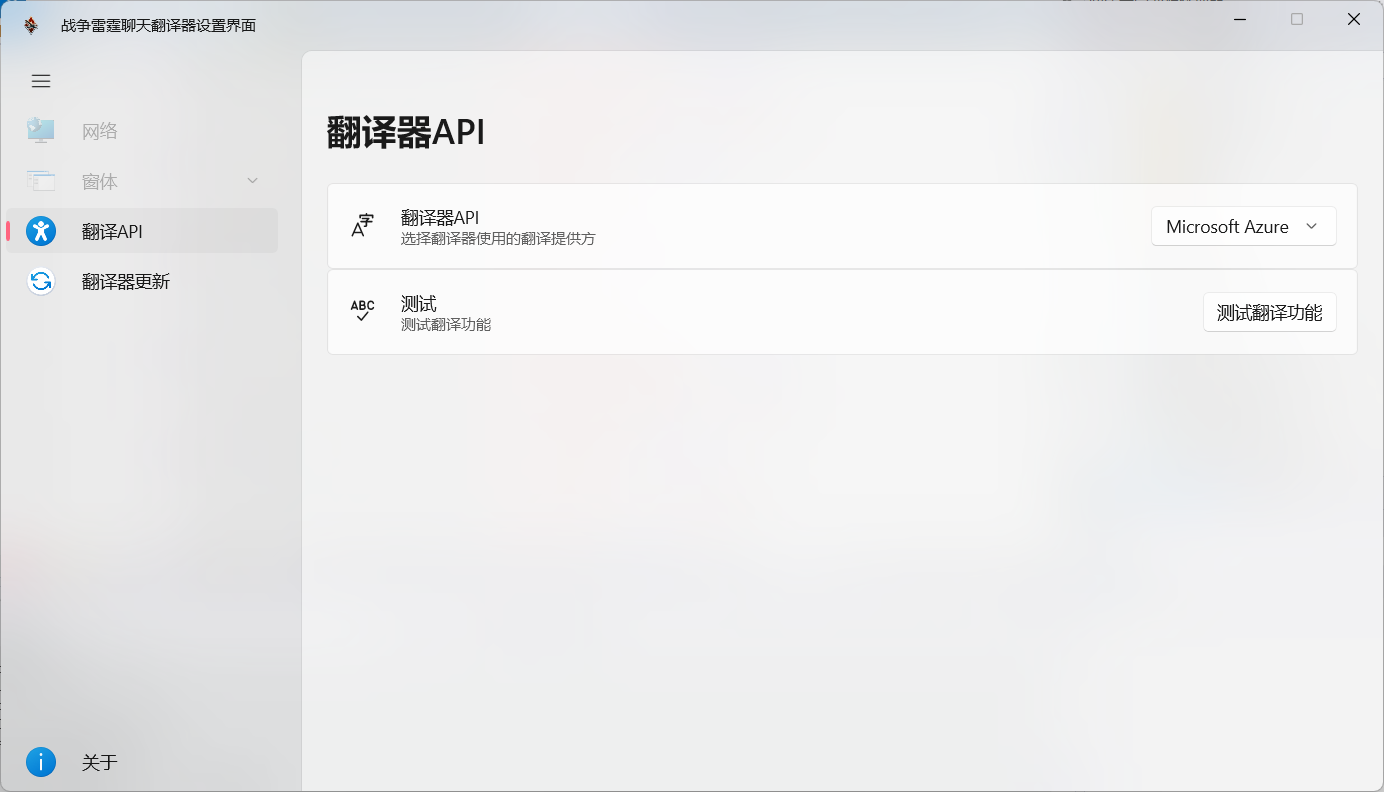
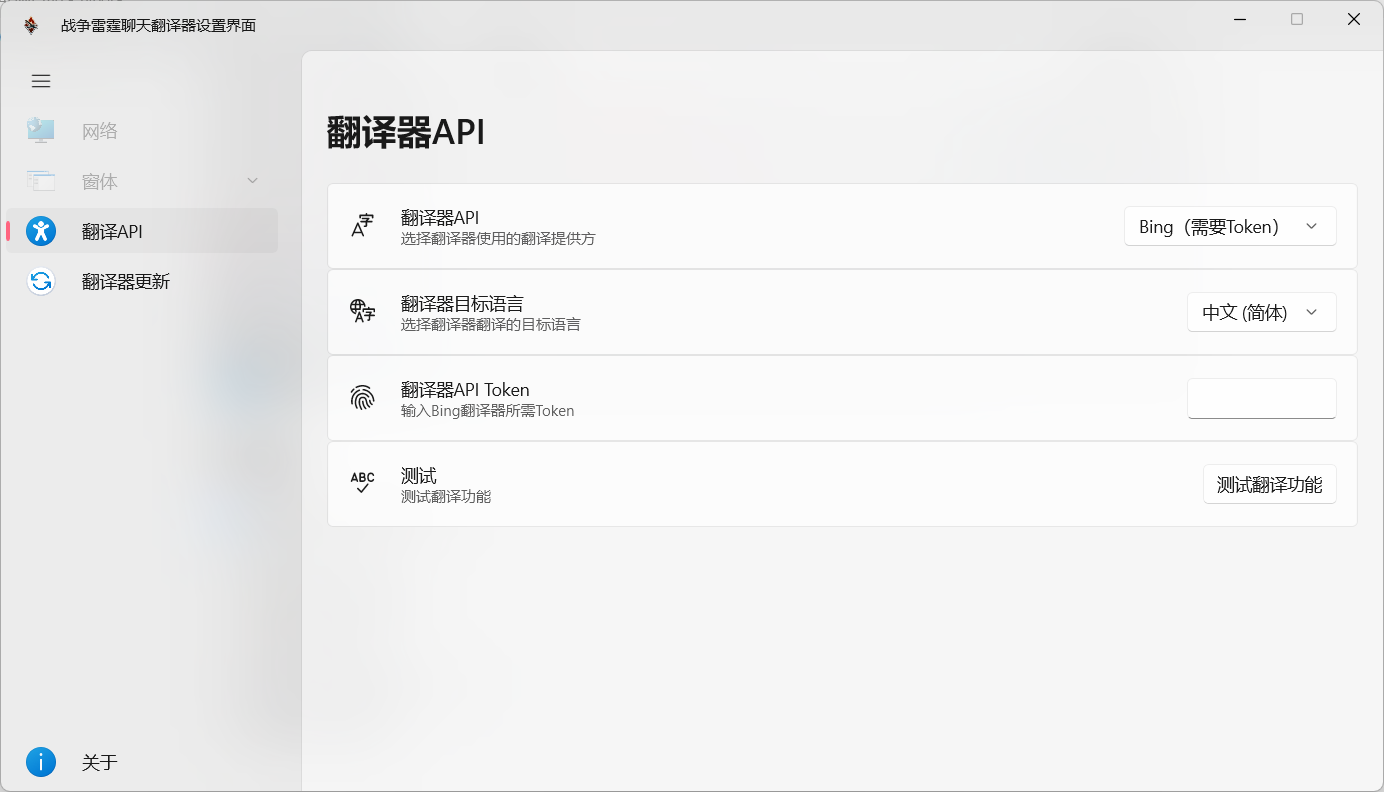
update README.md

diff --git a/README.md b/README.md
@@ -9,8 +9,10 @@
 ## Todos
 
 - [x] 重构至翻译界面WebUI
+- [x] 支持目标语言切换
+- [x] 提高代码复用性，减少重复
 - [ ] 支持Bing Token
 - [ ] 实现网络代理设置
 - [ ] 实现界面自定义
-- [ ] 实现自定义翻译接口（？）
 - [ ] 实现游戏内覆盖
+- [ ] 实现自定义翻译接口（？）
